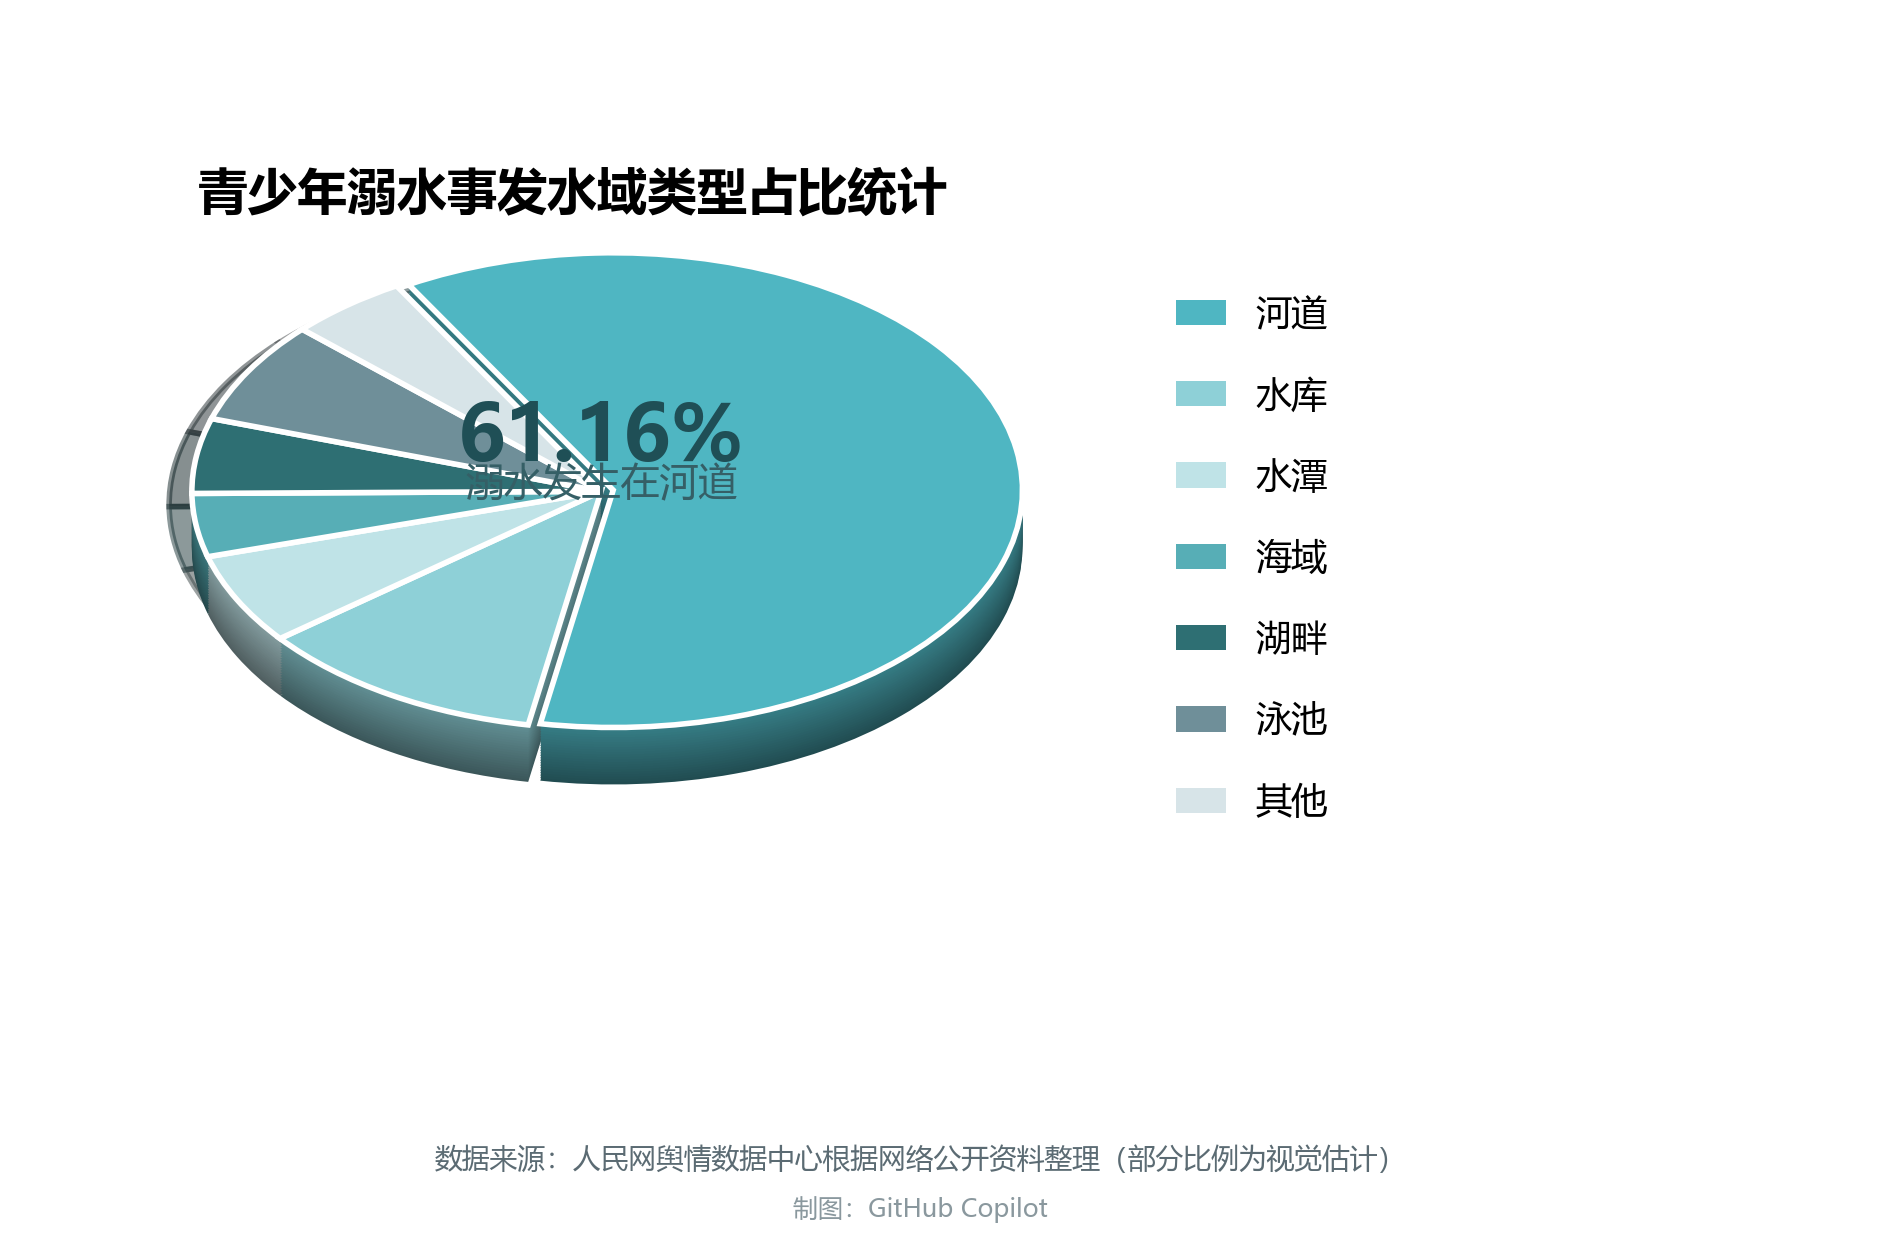
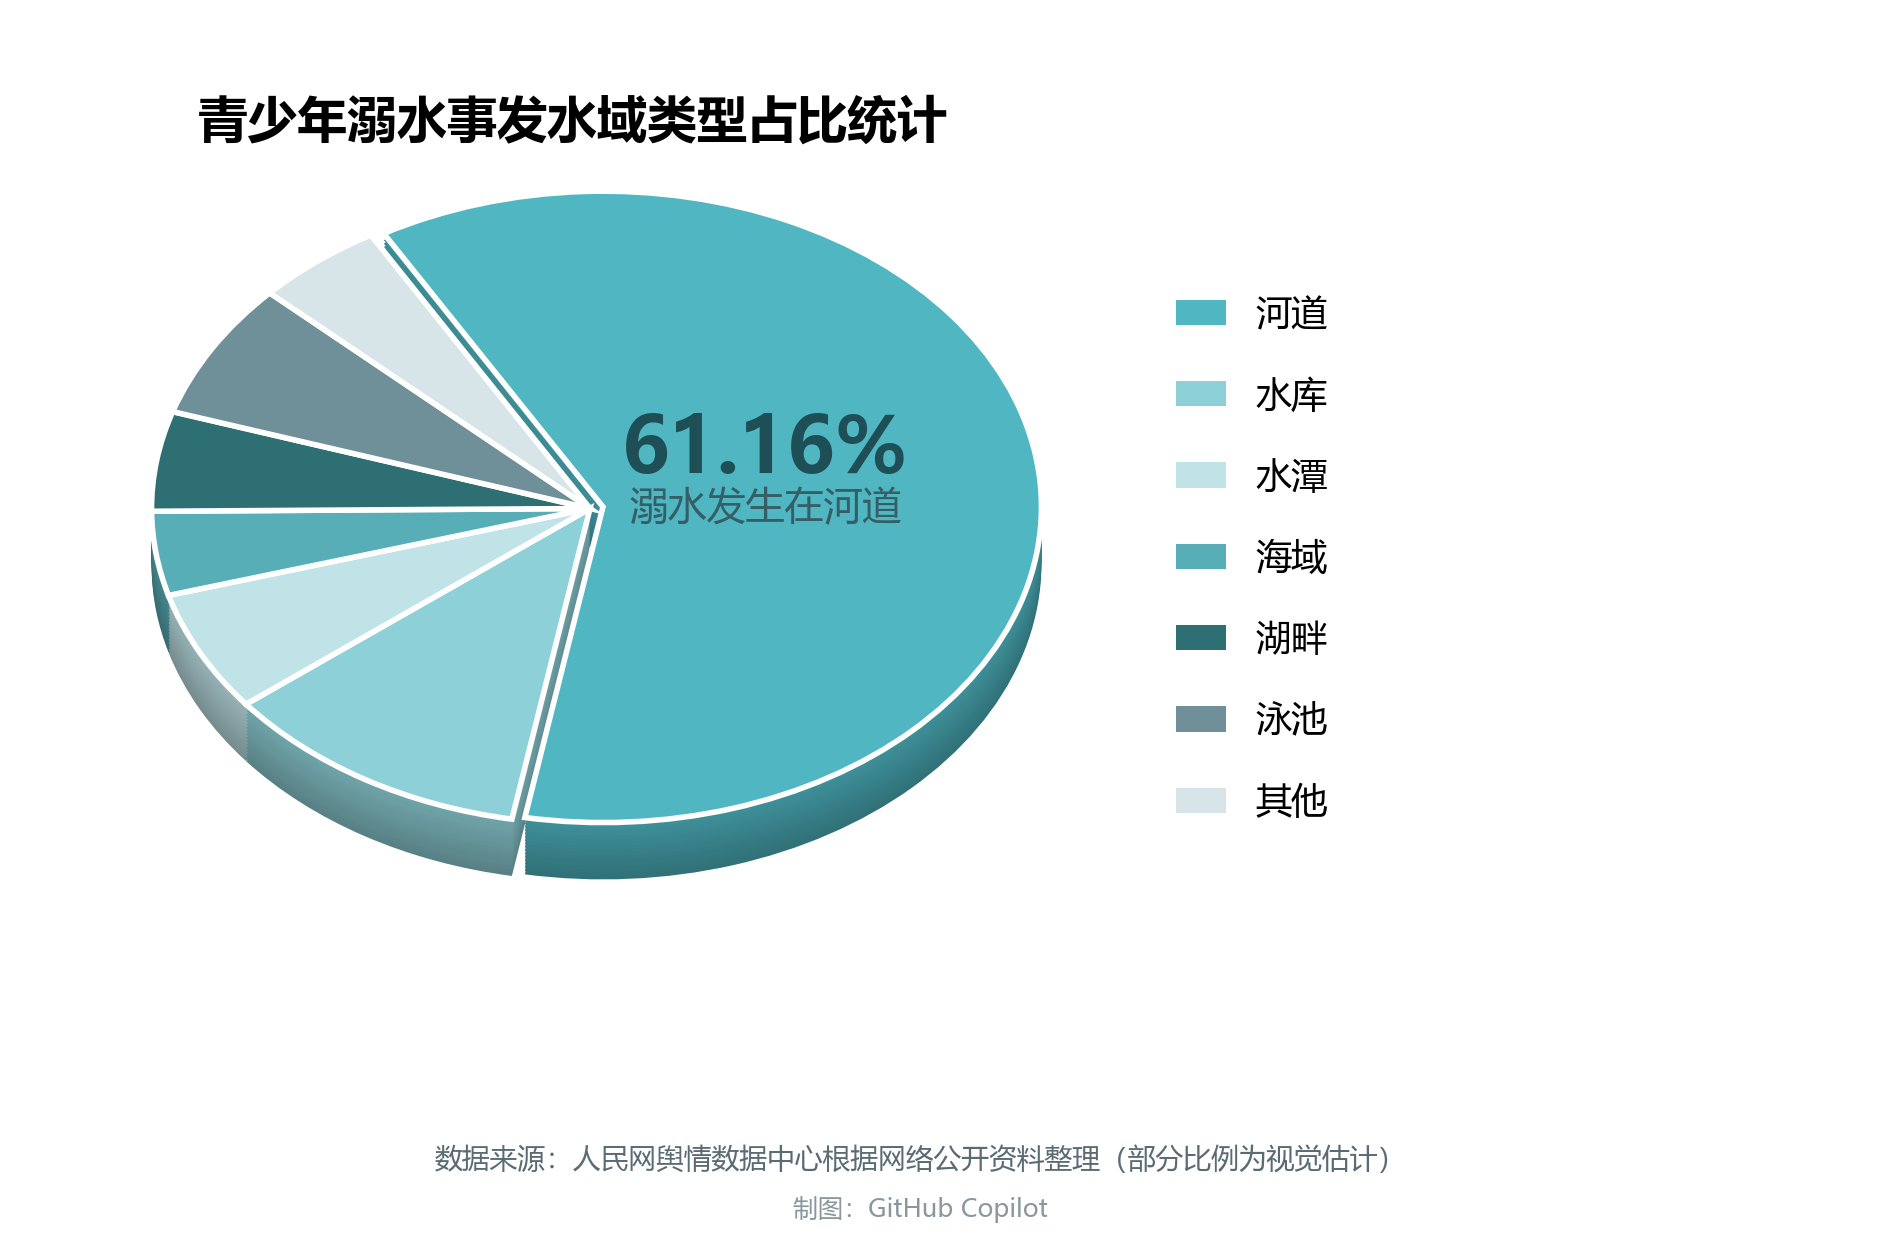
vault backup: 2026-03-08 19:12:39

Changed region(s): [[0.0621, 0.0611, 0.5589, 0.7337]]

diff --git a/tools/plot_drowning_water_types.py b/tools/plot_drowning_water_types.py
@@ -52,7 +52,7 @@ def configure_matplotlib() -> None:
     plt.rcParams["savefig.facecolor"] = "white"
 
 
-def darken_color(color: str, factor: float = 0.72) -> tuple[float, float, float]:
+def darken_color(color: str, factor: float = 0.8) -> tuple[float, float, float]:
     r, g, b = mcolors.to_rgb(color)
     return (r * factor, g * factor, b * factor)
 
@@ -75,11 +75,11 @@ def main() -> None:
     ax_pie = fig.add_subplot(gs[0, 0])
     ax_legend = fig.add_subplot(gs[0, 1])
 
-    depth = 0.24
-    layers = 24
+    depth = 0.18
+    layers = 18
     for i in range(layers):
         offset = -depth + (i / (layers - 1)) * depth
-        shade_factor = 0.42 + 0.28 * (i / (layers - 1))
+        shade_factor = 0.62 + 0.18 * (i / (layers - 1))
         layer_colors = [darken_color(color, shade_factor) for color in colors]
         ax_pie.pie(
             values,
@@ -101,12 +101,12 @@ def main() -> None:
         radius=1.0,
         center=(0, 0),
         wedgeprops={"edgecolor": "white", "linewidth": 2},
-        shadow=True,
+        shadow=False,
     )
 
     ax_pie.text(
-        0,
-        0.22,
+        0.40,
+        0.18,
         "61.16%",
         ha="center",
         va="center",
@@ -115,17 +115,17 @@ def main() -> None:
         color="#1F4F56",
     )
     ax_pie.text(
-        0,
-        0.03,
+        0.40,
+        0.00,
         "溺水发生在河道",
         ha="center",
         va="center",
         fontsize=14,
         color="#355F66",
     )
-    ax_pie.set_aspect(0.58)
-    ax_pie.set_xlim(-1.42, 1.28)
-    ax_pie.set_ylim(-1.55, 0.98)
+    ax_pie.set_aspect(0.72)
+    ax_pie.set_xlim(-1.30, 1.22)
+    ax_pie.set_ylim(-1.34, 1.02)
     ax_pie.set_title(TITLE, fontsize=18, fontweight="bold", pad=18)
 
     legend_handles = [Patch(facecolor=COLORS[label], edgecolor="none", label=label) for label in labels]
